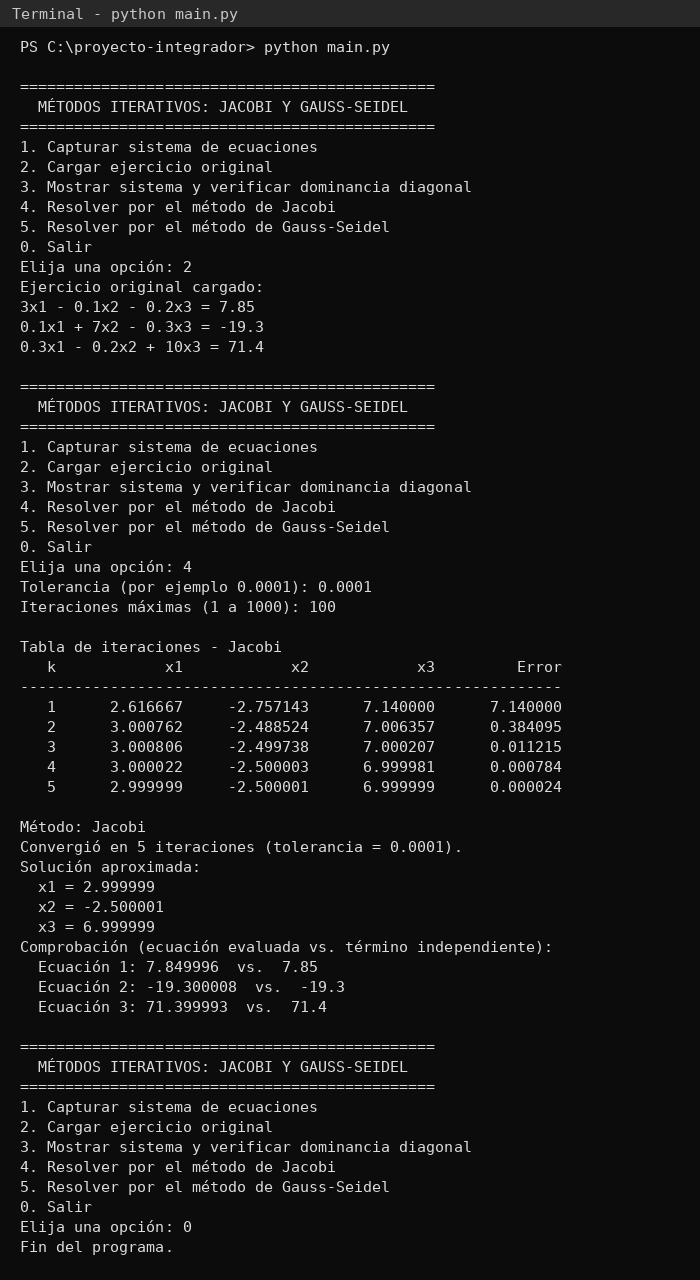
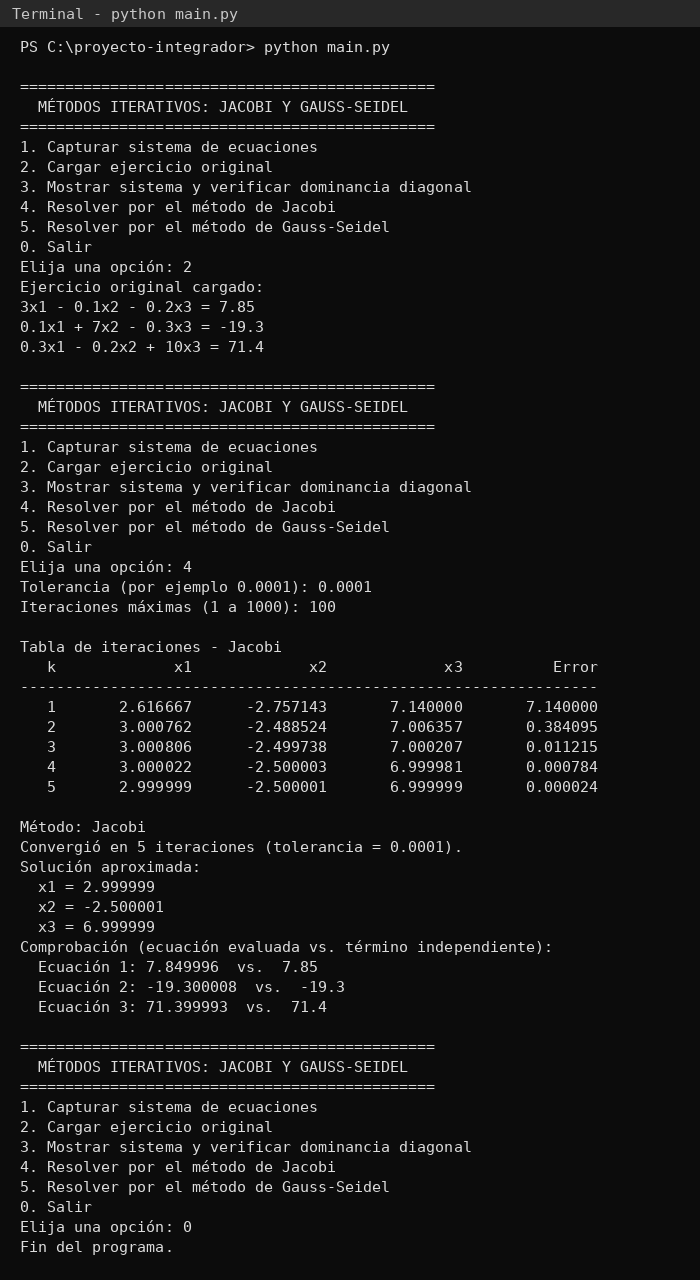
Corregir errores identificados en pruebas

diff --git a/clases/metodo_iterativo.py b/clases/metodo_iterativo.py
@@ -108,16 +108,16 @@ class MetodoIterativo:
         n = self.sistema.n
         encabezado = f"{'k':>4}"
         for i in range(n):
-            encabezado += f"{'x' + str(i + 1):>14}"
-        encabezado += f"{'Error':>14}"
+            encabezado += " " + f"{'x' + str(i + 1):>14}"
+        encabezado += " " + f"{'Error':>14}"
 
         lineas = [f"Tabla de iteraciones - {self.nombre_metodo}",
                   encabezado, "-" * len(encabezado)]
         for registro in self.iteraciones:
             linea = f"{registro['k']:>4}"
             for valor in registro["x"]:
-                linea += f"{valor:>14.6f}"
-            linea += f"{registro['error']:>14.6f}"
+                linea += " " + f"{valor:>14.6f}"
+            linea += " " + f"{registro['error']:>14.6f}"
             lineas.append(linea)
         return "\n".join(lineas)
 

diff --git a/documentacion/02_pruebas.md b/documentacion/02_pruebas.md
@@ -71,6 +71,18 @@ Los valores de cada fila de las tablas de iteraciones y los errores también coi
 | Objetivo | Verificar la regla de dominancia diagonal: aviso al usuario y comportamiento del método cuando no converge. |
 | Entradas | Opción 1, $n = 2$: $x_1 + 5x_2 = 6$; $7x_1 + x_2 = 8$. Opción 3 y opción 4 con tolerancia = 0.0001 e iteraciones máximas = 10. |
 | Resultado esperado | "NO es diagonalmente dominante", aviso antes de resolver, tabla de 10 iteraciones con valores que crecen y mensaje "No convergió en 10 iteraciones". |
-| Resultado obtenido | Se muestran el aviso y el mensaje "No convergió en 10 iteraciones", pero en las iteraciones 8 a 10 las columnas de la tabla aparecen pegadas (por ejemplo `-1500624.000000-1500624.000000...`) y no se pueden leer. |
-| Estado | Falla |
-| Observaciones | La regla funciona, pero el formato de la tabla no separa columnas cuando los números tienen más de 14 caracteres. Evidencia: `prueba_05_regla_dominancia.png`. |
+| Resultado obtenido | **Primera ejecución:** se mostraron el aviso y el mensaje "No convergió en 10 iteraciones", pero en las iteraciones 8 a 10 las columnas de la tabla aparecían pegadas (por ejemplo `-1500624.000000-1500624.000000...`) y no se podían leer. **Después de la corrección:** "NO es diagonalmente dominante", aviso antes de resolver, tabla de 10 iteraciones con columnas separadas (iteración 10: $x_1 = -52521874$, $x_2 = -52521874$) y mensaje "No convergió en 10 iteraciones". |
+| Estado | Correcto (después de corregir) |
+| Observaciones | Error detectado: el formato `>14.6f` no deja espacio entre columnas cuando un número ocupa más de 14 caracteres. Corrección: en `mostrar_tabla()` se agregó un espacio fijo antes de cada columna (también se actualizó la especificación) y se volvieron a ejecutar todos los casos con los mismos resultados. Evidencia: `prueba_05_regla_dominancia.png`. |
+
+---
+
+## Resumen
+
+| Caso | Descripción | Estado |
+|---|---|---|
+| CP-01 | Caso original con resultado conocido | Correcto |
+| CP-02 | Caso normal adicional (4 × 4) | Correcto |
+| CP-03 | Caso límite ($n = 2$, 1 iteración) | Correcto |
+| CP-04 | Entradas inválidas | Correcto |
+| CP-05 | Regla de dominancia diagonal / no convergencia | Correcto (después de corregir) |

diff --git a/especificaciones/especificacion_metodo_iterativo.md b/especificaciones/especificacion_metodo_iterativo.md
@@ -101,7 +101,7 @@ $$
 | Objetivo | Construir la tabla de iteraciones. |
 | Entradas | Ninguna. |
 | Atributos utilizados | `iteraciones`, `sistema.n` |
-| Algoritmo | Si `iteraciones` está vacía → devolver `"No se ha resuelto el sistema."`. Si no, armar un encabezado `k, x1, ..., xn, Error` y una línea por iteración con los valores redondeados a 6 decimales. |
+| Algoritmo | Si `iteraciones` está vacía → devolver `"No se ha resuelto el sistema."`. Si no, armar un encabezado `k, x1, ..., xn, Error` y una línea por iteración con los valores redondeados a 6 decimales. Cada columna va precedida por un espacio fijo para que las columnas no se peguen cuando los números son muy grandes. |
 | Resultado | `str` |
 | Validaciones | Lista vacía. |
 
